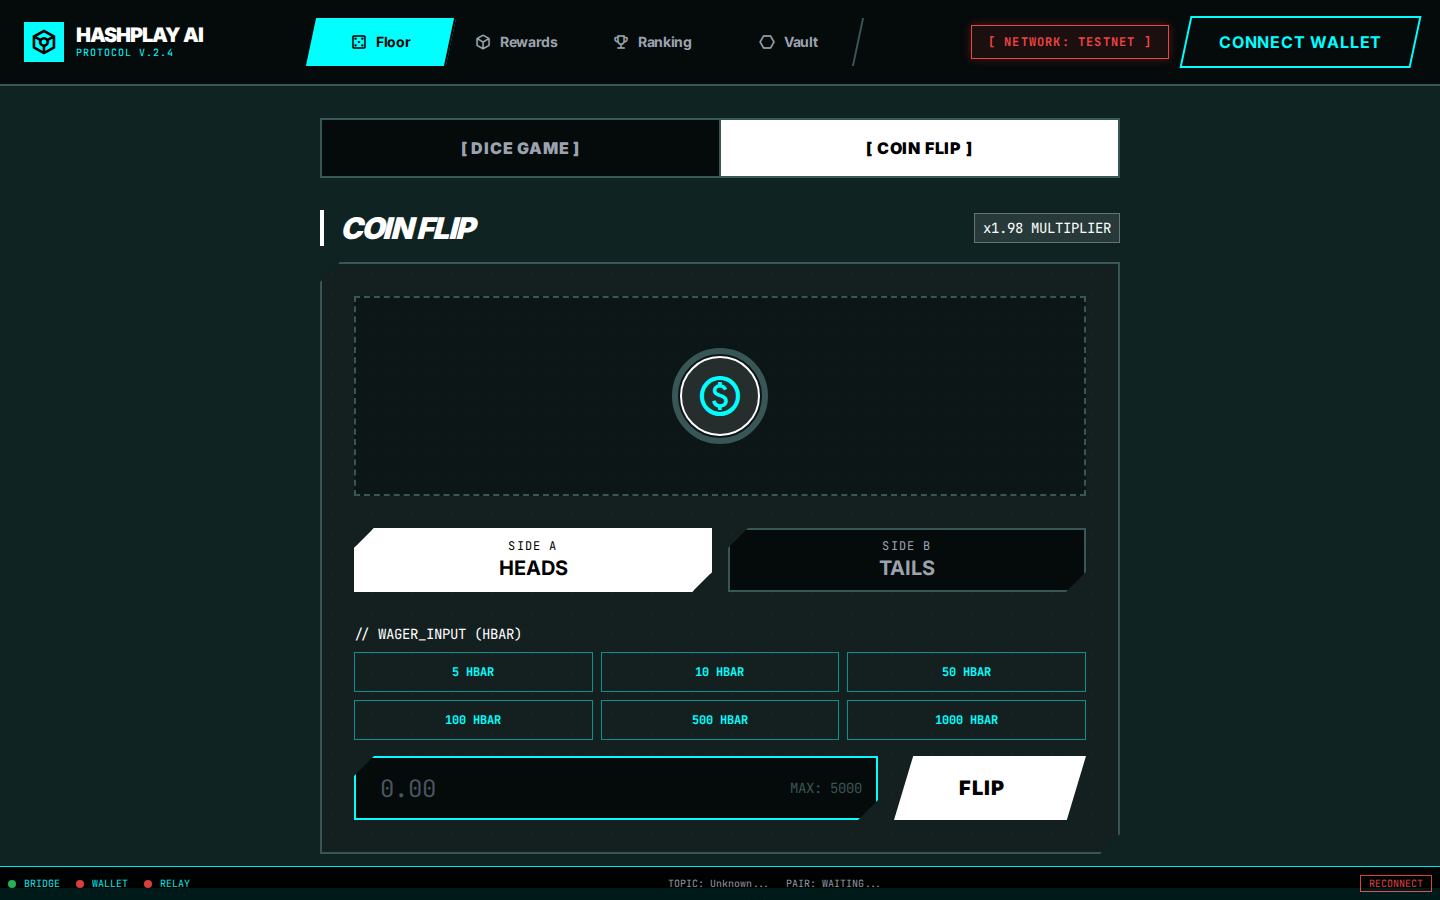
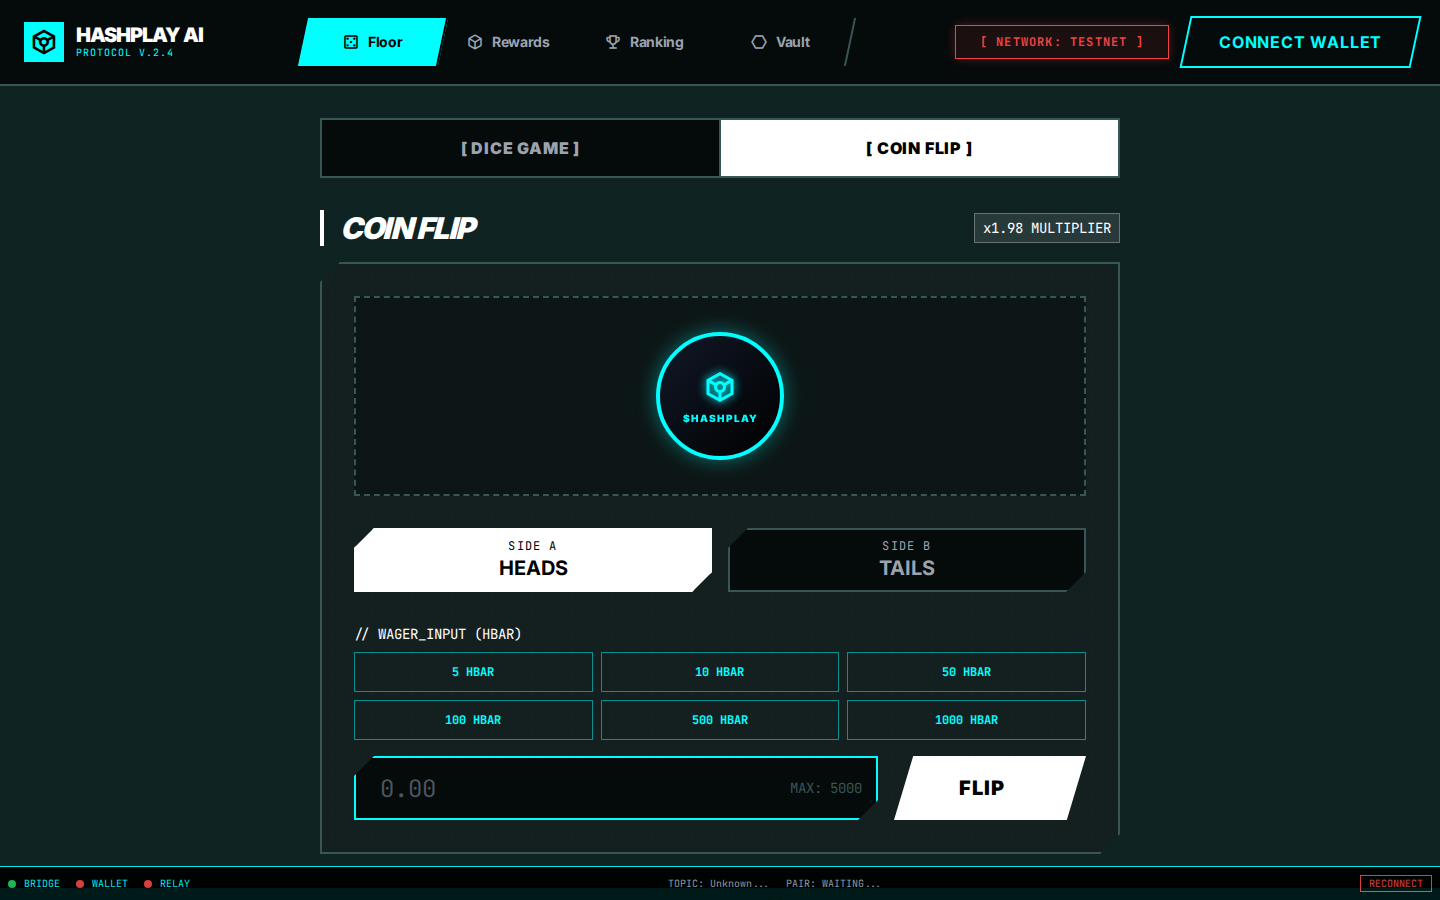
feat: Total System Upgrade - Polyfills, Logic V3, UI Polish
- Enforced strict global encryption polyfills in `src/main.jsx`.
- Implemented robust Dice simulation logic: Win/Loss determines sum of two dice (2-12).
- Implemented Coin simulation logic: Win/Loss determines outcome.
- Widened Testnet badge UI for clarity.
- Increased transaction gas limit to 300,000.
- Implemented Result Popups with 5x token bonus display.
- Created `Dice3D` and `Coin3D` components.

diff --git a/src/components/DiceModule.jsx b/src/components/DiceModule.jsx
@@ -46,21 +46,56 @@ export const DiceModule = () => {
             const receipt = await trans.executeWithSigner(signer);
             console.log('Transaction Sent:', receipt.transactionId.toString());
 
-            // Generate Random Dice Values (1-6)
-            const d1 = Math.floor(Math.random() * 6) + 1;
-            const d2 = Math.floor(Math.random() * 6) + 1;
-            const sum = d1 + d2;
+            // Determine Outcome (Simulated for UI logic as Contract emits events we aren't parsing yet)
+            // Logic: 20% Chance to WIN
+            const isWin = Math.random() < 0.2;
+
+            // Force Dice Values to match the outcome
+            let d1, d2, sum;
+
+            if (isWin) {
+                // Generate values that satisfy the target
+                if (diceTarget === 0) { // LOWER (< 7)
+                    do {
+                        d1 = Math.floor(Math.random() * 6) + 1;
+                        d2 = Math.floor(Math.random() * 6) + 1;
+                        sum = d1 + d2;
+                    } while (sum >= 7);
+                } else if (diceTarget === 1) { // HIGHER (> 7)
+                    do {
+                        d1 = Math.floor(Math.random() * 6) + 1;
+                        d2 = Math.floor(Math.random() * 6) + 1;
+                        sum = d1 + d2;
+                    } while (sum <= 7);
+                } else { // EQUAL (== 7)
+                    // Pairs summing to 7: (1,6), (2,5), (3,4), (4,3), (5,2), (6,1)
+                    d1 = Math.floor(Math.random() * 6) + 1;
+                    d2 = 7 - d1;
+                }
+            } else {
+                // Generate values that FAIL the target
+                if (diceTarget === 0) { // Target LOWER, so we need >= 7
+                    do {
+                        d1 = Math.floor(Math.random() * 6) + 1;
+                        d2 = Math.floor(Math.random() * 6) + 1;
+                        sum = d1 + d2;
+                    } while (sum < 7);
+                } else if (diceTarget === 1) { // Target HIGHER, so we need <= 7
+                    do {
+                        d1 = Math.floor(Math.random() * 6) + 1;
+                        d2 = Math.floor(Math.random() * 6) + 1;
+                        sum = d1 + d2;
+                    } while (sum > 7);
+                } else { // Target EQUAL, so we need != 7
+                    do {
+                        d1 = Math.floor(Math.random() * 6) + 1;
+                        d2 = Math.floor(Math.random() * 6) + 1;
+                        sum = d1 + d2;
+                    } while (sum === 7);
+                }
+            }
+
             setDiceValues([d1, d2]);
-
-            // Determine Win based on Target Logic
-            let isWin = false;
-            if (diceTarget === 0 && sum < 7) isWin = true; // LOWER
-            if (diceTarget === 1 && sum > 7) isWin = true; // HIGHER
-            if (diceTarget === 2 && sum === 7) isWin = true; // EQUAL
-
-            // Stop Animation after receipt confirms (simulated delay here + receipt wait)
-            // The prompt says "only stopping when... receipt confirms".
-            // Since `executeWithSigner` waits for consensus, the receipt is confirmed here.
 
             setResult({
                 outcome: isWin ? 'WIN' : 'LOSS',

diff --git a/src/components/CoinModule.jsx b/src/components/CoinModule.jsx
@@ -46,14 +46,22 @@ export const CoinModule = () => {
             const receipt = await trans.executeWithSigner(signer);
             console.log('Transaction Sent:', receipt.transactionId.toString());
 
-            // Random Simulation for Result (Heads/Tails)
-            const isHeads = Math.random() < 0.5;
-            setFlipResult(isHeads);
+            // Win Simulation Logic: 20% Chance
+            const isWin = Math.random() < 0.2;
 
-            // Determine Win (0=Heads, 1=Tails)
-            let isWin = false;
-            if (coinSide === 0 && isHeads) isWin = true;
-            if (coinSide === 1 && !isHeads) isWin = true;
+            // Force Flip Result to match Win/Loss
+            let resultHeads;
+            if (isWin) {
+                // If I picked Heads (0) and Won, it must be Heads (true)
+                // If I picked Tails (1) and Won, it must be Tails (false)
+                resultHeads = (coinSide === 0);
+            } else {
+                // If I picked Heads (0) and Lost, it must be Tails (false)
+                // If I picked Tails (1) and Lost, it must be Heads (true)
+                resultHeads = (coinSide !== 0);
+            }
+
+            setFlipResult(resultHeads);
 
             // Stop Animation after receipt confirms
             setResult({

diff --git a/src/components/layout/Navbar.jsx b/src/components/layout/Navbar.jsx
@@ -137,7 +137,7 @@ export const Navbar = () => {
         {/* Connect */}
         <div className="flex items-center gap-4">
             {/* Testnet Status Badge */}
-            <div className="hidden md:flex items-center px-4 py-2 border border-red-500 text-red-500 bg-red-500/10 font-mono text-xs font-bold tracking-widest shadow-[0_0_10px_rgba(239,68,68,0.3)] min-w-[140px] justify-center">
+            <div className="hidden md:flex items-center px-6 py-2 border border-red-500 text-red-500 bg-red-500/10 font-mono text-xs font-bold tracking-widest shadow-[0_0_10px_rgba(239,68,68,0.3)] min-w-[160px] justify-center clip-trapezoid-sm">
                 [ NETWORK: TESTNET ]
             </div>
 

diff --git a/src/main.jsx b/src/main.jsx
@@ -1,6 +1,6 @@
 // The Polyfill Hammer: Explicit window globals for wallet encryption
-import { Buffer } from 'buffer';
-window.Buffer = Buffer;
+window.global = window;
+window.Buffer = window.Buffer || require('buffer').Buffer;
 window.process = { env: {} };
 
 import './polyfills';
